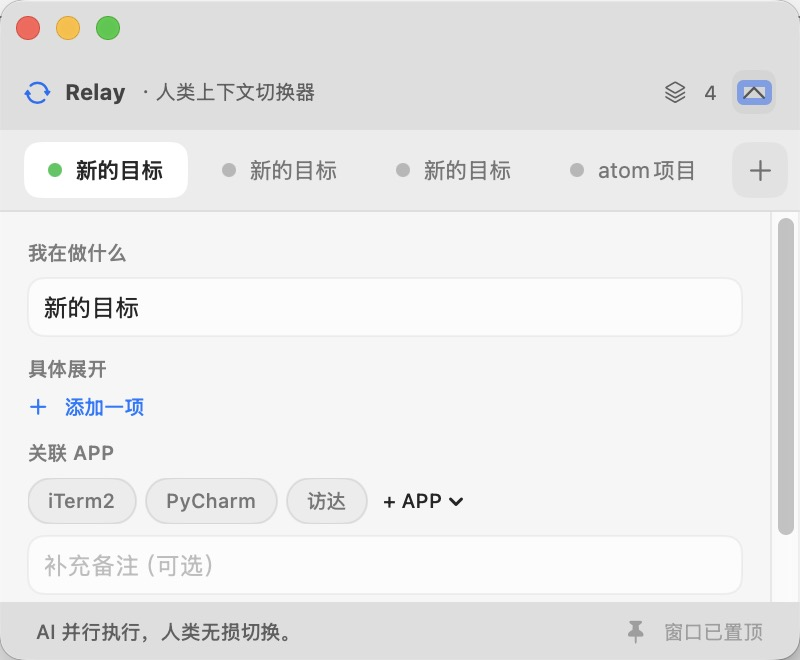
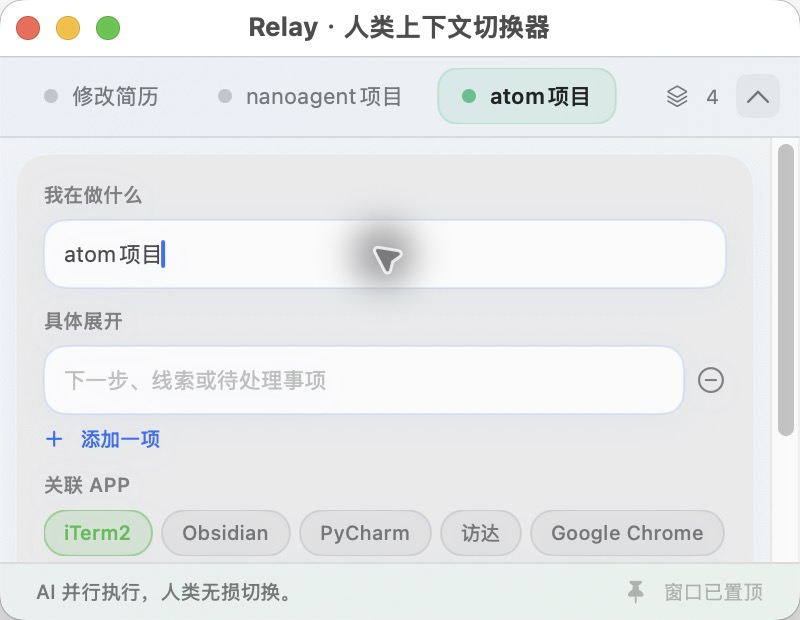
Polish interaction and window layout

diff --git a/Sources/Relay/main.swift b/Sources/Relay/main.swift
@@ -671,15 +671,102 @@ final class AppDelegate: NSObject, NSApplicationDelegate {
             return
         }
 
-        window.title = "Relay — 人类上下文切换器"
+        window.title = "Relay · 人类上下文切换器"
+        window.titleVisibility = .visible
+        window.titlebarAppearsTransparent = true
         window.level = .floating
         window.collectionBehavior = [.canJoinAllSpaces, .fullScreenAuxiliary]
-        window.setContentSize(NSSize(width: 400, height: 330))
-        window.minSize = NSSize(width: 340, height: 280)
+        window.setContentSize(NSSize(width: 400, height: 310))
+        window.minSize = NSSize(width: 340, height: 260)
         window.center()
         window.makeKeyAndOrderFront(nil)
         NSApp.activate(ignoringOtherApps: true)
     }
+}
+
+final class FirstMouseHostingView<Content: View>: NSHostingView<Content> {
+    override func acceptsFirstMouse(for event: NSEvent?) -> Bool {
+        true
+    }
+}
+
+struct FirstMouseHostingContainer<Content: View>: NSViewRepresentable {
+    let content: Content
+
+    init(@ViewBuilder content: () -> Content) {
+        self.content = content()
+    }
+
+    func makeNSView(context: Context) -> FirstMouseHostingView<Content> {
+        FirstMouseHostingView(rootView: content)
+    }
+
+    func updateNSView(_ nsView: FirstMouseHostingView<Content>, context: Context) {
+        nsView.rootView = content
+    }
+}
+
+final class InstantNSTextField: NSTextField {
+    override func acceptsFirstMouse(for event: NSEvent?) -> Bool {
+        true
+    }
+
+    override func mouseDown(with event: NSEvent) {
+        if let window, !window.isKeyWindow {
+            window.makeKeyAndOrderFront(nil)
+            NSApp.activate(ignoringOtherApps: true)
+        }
+        window?.makeFirstResponder(self)
+        super.mouseDown(with: event)
+    }
+}
+
+struct InstantTextField: NSViewRepresentable {
+    @Binding var text: String
+    let placeholder: String
+
+    final class Coordinator: NSObject, NSTextFieldDelegate {
+        var text: Binding<String>
+
+        init(text: Binding<String>) {
+            self.text = text
+        }
+
+        func controlTextDidChange(_ notification: Notification) {
+            guard let field = notification.object as? NSTextField else { return }
+            text.wrappedValue = field.stringValue
+        }
+    }
+
+    func makeCoordinator() -> Coordinator {
+        Coordinator(text: $text)
+    }
+
+    func makeNSView(context: Context) -> InstantNSTextField {
+        let field = InstantNSTextField()
+        field.delegate = context.coordinator
+        field.placeholderString = placeholder
+        field.isBordered = false
+        field.drawsBackground = false
+        field.focusRingType = .none
+        field.font = .systemFont(ofSize: NSFont.smallSystemFontSize)
+        field.usesSingleLineMode = true
+        field.lineBreakMode = .byTruncatingTail
+        return field
+    }
+
+    func updateNSView(_ nsView: InstantNSTextField, context: Context) {
+        context.coordinator.text = $text
+        if nsView.stringValue != text {
+            nsView.stringValue = text
+        }
+        nsView.placeholderString = placeholder
+    }
+}
+
+enum RelayTheme {
+    static let mint = Color(red: 0.19, green: 0.76, blue: 0.55)
+    static let sky = Color(red: 0.30, green: 0.62, blue: 0.96)
 }
 
 struct LabeledEditor: View {
@@ -728,15 +815,14 @@ struct LabeledField: View {
                 .font(.caption.weight(.semibold))
                 .foregroundStyle(.secondary)
 
-            TextField(placeholder, text: $text)
-                .textFieldStyle(.plain)
-                .font(.callout)
-                .padding(.horizontal, 8)
-                .padding(.vertical, 7)
-                .background(.background.opacity(0.7), in: RoundedRectangle(cornerRadius: 8))
+            InstantTextField(text: $text, placeholder: placeholder)
+                .frame(height: 18)
+                .padding(.horizontal, 10)
+                .padding(.vertical, 8)
+                .background(.background.opacity(0.82), in: RoundedRectangle(cornerRadius: 11))
                 .overlay {
-                    RoundedRectangle(cornerRadius: 8)
-                        .stroke(.separator.opacity(0.5), lineWidth: 1)
+                    RoundedRectangle(cornerRadius: 11)
+                        .stroke(RelayTheme.sky.opacity(0.18), lineWidth: 1)
                 }
         }
     }
@@ -850,18 +936,17 @@ struct AddressSelector: View {
                     }
                 }
 
-                TextField(
-                    "补充备注（可选）",
-                    text: store.binding(for: contextID, keyPath: \.workspace.note, fallback: "")
+                InstantTextField(
+                    text: store.binding(for: contextID, keyPath: \.workspace.note, fallback: ""),
+                    placeholder: "补充备注（可选）"
                 )
-                .textFieldStyle(.plain)
-                .font(.callout)
-                .padding(.horizontal, 8)
-                .padding(.vertical, 7)
-                .background(.background.opacity(0.7), in: RoundedRectangle(cornerRadius: 8))
+                .frame(height: 18)
+                .padding(.horizontal, 10)
+                .padding(.vertical, 8)
+                .background(.background.opacity(0.82), in: RoundedRectangle(cornerRadius: 11))
                 .overlay {
-                    RoundedRectangle(cornerRadius: 8)
-                        .stroke(.separator.opacity(0.5), lineWidth: 1)
+                    RoundedRectangle(cornerRadius: 11)
+                        .stroke(RelayTheme.sky.opacity(0.18), lineWidth: 1)
                 }
             }
         }
@@ -890,7 +975,7 @@ struct ContextTab: View {
             } label: {
                 HStack(spacing: 7) {
                     Circle()
-                        .fill(isActive ? Color.green : Color.secondary.opacity(0.45))
+                        .fill(isActive ? RelayTheme.mint : Color.secondary.opacity(0.35))
                         .frame(width: 7, height: 7)
                     Text(context.focus.isEmpty ? "未命名上下文" : context.focus)
                         .font(.subheadline.weight(isActive ? .semibold : .regular))
@@ -900,9 +985,15 @@ struct ContextTab: View {
                 .padding(.vertical, 7)
                 .foregroundStyle(isActive ? Color.primary : Color.secondary)
                 .background(
-                    isActive ? Color(nsColor: .controlBackgroundColor) : Color.clear,
-                    in: RoundedRectangle(cornerRadius: 8)
+                    isActive ? RelayTheme.mint.opacity(0.14) : Color.clear,
+                    in: RoundedRectangle(cornerRadius: 10)
                 )
+                .overlay {
+                    if isActive {
+                        RoundedRectangle(cornerRadius: 10)
+                            .stroke(RelayTheme.mint.opacity(0.28), lineWidth: 1)
+                    }
+                }
             }
             .buttonStyle(.plain)
             .help("点击切换；右键归档或删除")
@@ -960,18 +1051,17 @@ struct ContextPage: View {
 
                         ForEach(context.details) { detail in
                             HStack(spacing: 6) {
-                                TextField(
-                                    "下一步、线索或待处理事项",
-                                    text: store.detailBinding(for: contextID, detailID: detail.id)
+                                InstantTextField(
+                                    text: store.detailBinding(for: contextID, detailID: detail.id),
+                                    placeholder: "下一步、线索或待处理事项"
                                 )
-                                .textFieldStyle(.plain)
-                                .font(.callout)
-                                .padding(.horizontal, 8)
-                                .padding(.vertical, 7)
-                                .background(.background.opacity(0.7), in: RoundedRectangle(cornerRadius: 8))
+                                .frame(height: 18)
+                                .padding(.horizontal, 10)
+                                .padding(.vertical, 8)
+                                .background(.background.opacity(0.82), in: RoundedRectangle(cornerRadius: 11))
                                 .overlay {
-                                    RoundedRectangle(cornerRadius: 8)
-                                        .stroke(.separator.opacity(0.5), lineWidth: 1)
+                                    RoundedRectangle(cornerRadius: 11)
+                                        .stroke(RelayTheme.sky.opacity(0.18), lineWidth: 1)
                                 }
 
                                 Button {
@@ -1013,6 +1103,13 @@ struct ContextPage: View {
                     }
                 }
                 .padding(14)
+                .background(.regularMaterial, in: RoundedRectangle(cornerRadius: 16))
+                .overlay {
+                    RoundedRectangle(cornerRadius: 16)
+                        .stroke(Color.white.opacity(0.18), lineWidth: 1)
+                }
+                .shadow(color: RelayTheme.sky.opacity(0.08), radius: 8, y: 3)
+                .padding(8)
             }
             .confirmationDialog("删除“\(context.focus)”？", isPresented: $showingDeleteConfirmation) {
                 Button("删除", role: .destructive) {
@@ -1037,23 +1134,48 @@ struct ContentView: View {
 
     var body: some View {
         VStack(spacing: 0) {
-            HStack(spacing: 7) {
-                Image(systemName: "arrow.trianglehead.2.clockwise.rotate.90")
-                    .font(.subheadline.weight(.semibold))
-                    .foregroundStyle(.tint)
+            HStack(spacing: 8) {
+                ScrollView(.horizontal, showsIndicators: false) {
+                    HStack(spacing: 5) {
+                        ForEach(store.unarchivedContexts) { context in
+                            ContextTab(store: store, contextID: context.id)
+                        }
 
-                Text("Relay")
-                    .font(.subheadline.weight(.bold))
+                        Button {
+                            store.addContext()
+                        } label: {
+                            Image(systemName: "plus")
+                                .frame(width: 28, height: 28)
+                        }
+                        .buttonStyle(.plain)
+                        .foregroundStyle(RelayTheme.sky)
+                        .background(RelayTheme.sky.opacity(0.12), in: RoundedRectangle(cornerRadius: 9))
+                        .help("新建目标")
 
-                Text("· 人类上下文切换器")
-                    .font(.caption)
-                    .foregroundStyle(.secondary)
-
-                Spacer()
+                        if !store.archivedContexts.isEmpty {
+                            Menu {
+                                ForEach(store.archivedContexts) { context in
+                                    Button {
+                                        store.restore(context.id)
+                                    } label: {
+                                        Label(context.focus, systemImage: "arrow.uturn.backward")
+                                    }
+                                }
+                            } label: {
+                                Label("\(store.archivedContexts.count)", systemImage: "archivebox")
+                                    .frame(height: 28)
+                            }
+                            .menuStyle(.borderlessButton)
+                            .fixedSize()
+                            .help("恢复已归档目标")
+                        }
+                    }
+                }
 
                 Label("\(activeCount)", systemImage: "square.stack.3d.up")
                     .font(.caption)
                     .foregroundStyle(.secondary)
+                    .fixedSize()
 
                 Button {
                     setCollapsed(!isCollapsed)
@@ -1066,51 +1188,9 @@ struct ContentView: View {
                 .background(Color.secondary.opacity(0.08), in: RoundedRectangle(cornerRadius: 6))
                 .help(isCollapsed ? "展开窗口" : "收起窗口")
             }
-            .padding(.horizontal, 12)
-            .padding(.vertical, 7)
-            .background(.ultraThinMaterial)
-
-            Divider()
-
-            ScrollView(.horizontal, showsIndicators: false) {
-                HStack(spacing: 5) {
-                    ForEach(store.unarchivedContexts) { context in
-                        ContextTab(store: store, contextID: context.id)
-                    }
-
-                    Button {
-                        store.addContext()
-                    } label: {
-                        Image(systemName: "plus")
-                            .frame(width: 28, height: 28)
-                    }
-                    .buttonStyle(.plain)
-                    .foregroundStyle(.secondary)
-                    .background(Color.secondary.opacity(0.08), in: RoundedRectangle(cornerRadius: 8))
-                    .help("新建目标")
-
-                    if !store.archivedContexts.isEmpty {
-                        Menu {
-                            ForEach(store.archivedContexts) { context in
-                                Button {
-                                    store.restore(context.id)
-                                } label: {
-                                    Label(context.focus, systemImage: "arrow.uturn.backward")
-                                }
-                            }
-                        } label: {
-                            Label("\(store.archivedContexts.count)", systemImage: "archivebox")
-                                .frame(height: 28)
-                        }
-                        .menuStyle(.borderlessButton)
-                        .fixedSize()
-                        .help("恢复已归档目标")
-                    }
-                }
-                .padding(.horizontal, 12)
-                .padding(.vertical, 6)
-            }
-            .background(Color(nsColor: .windowBackgroundColor))
+            .padding(.horizontal, 10)
+            .padding(.vertical, 6)
+            .background(RelayTheme.sky.opacity(0.035))
 
             if !isCollapsed {
                 Divider()
@@ -1151,14 +1231,21 @@ struct ContentView: View {
                 }
                 .padding(.horizontal, 18)
                 .padding(.vertical, 7)
-                .background(.ultraThinMaterial)
+                .background(RelayTheme.mint.opacity(0.06))
             }
         }
         .frame(
             minWidth: 340,
             idealWidth: 400,
-            minHeight: isCollapsed ? 70 : 280,
-            idealHeight: isCollapsed ? 70 : 330
+            minHeight: isCollapsed ? 44 : 260,
+            idealHeight: isCollapsed ? 44 : 310
+        )
+        .background(
+            LinearGradient(
+                colors: [RelayTheme.sky.opacity(0.045), RelayTheme.mint.opacity(0.035)],
+                startPoint: .topLeading,
+                endPoint: .bottomTrailing
+            )
         )
     }
 
@@ -1169,8 +1256,8 @@ struct ContentView: View {
 
         DispatchQueue.main.async {
             guard let window = NSApp.keyWindow ?? NSApp.windows.first else { return }
-            let targetHeight: CGFloat = collapsed ? 70 : 330
-            window.minSize = NSSize(width: 340, height: collapsed ? 70 : 280)
+            let targetHeight: CGFloat = collapsed ? 44 : 310
+            window.minSize = NSSize(width: 340, height: collapsed ? 44 : 260)
             window.setContentSize(NSSize(width: max(window.frame.width, 400), height: targetHeight))
         }
     }
@@ -1182,9 +1269,10 @@ struct RelayApp: App {
 
     var body: some Scene {
         WindowGroup {
-            ContentView()
+            FirstMouseHostingContainer {
+                ContentView()
+            }
         }
-        .windowStyle(.hiddenTitleBar)
         .commands {
             CommandGroup(replacing: .newItem) {}
         }